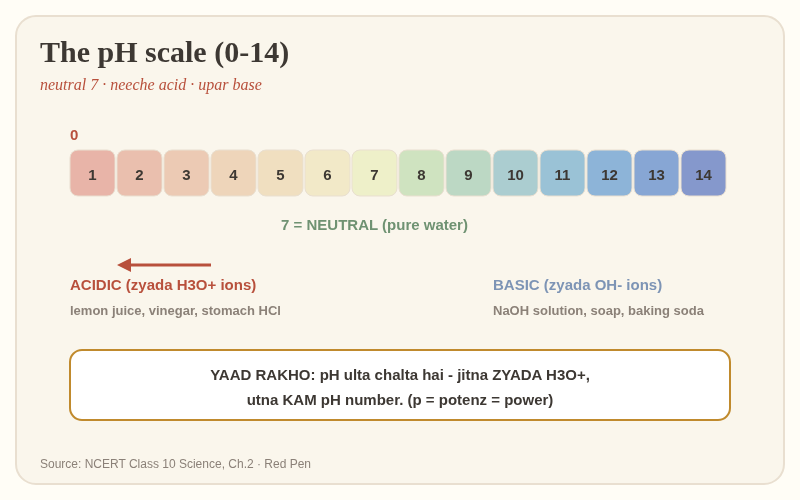
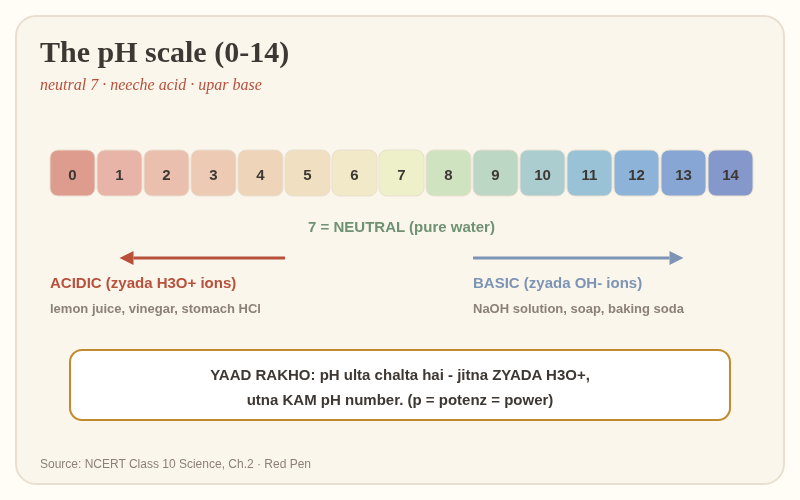
Fix pH card off-by-one: tiles now run 0-14 (15 tiles), arrows point acid-ward/base-ward

diff --git a/cards/gen_cards.js b/cards/gen_cards.js
@@ -168,18 +168,18 @@ const SRC2 = 'Source: NCERT Class 10 Science, Ch.2 · Red Pen';
 // pH scale 0-14
 {
   const seg = [];
-  const cols = ['#e8b4a8','#eabfae','#eccab4','#eed5ba','#f0dfc0','#f2e9c8','#eef0c9','#cfe3c0','#bcd8c4','#abcdd0','#9ac2d6','#8db4d8','#87a6d4','#8598cc','#8a8cc2'];
-  for (let i = 0; i < 14; i++) {
-    seg.push(`<rect x="${70 + i * 47}" y="150" width="45" height="46" rx="8" fill="${cols[i]}" stroke="${C.line}"/>`);
-    seg.push(txt(70 + i * 47 + 22.5, 180, String(i + 1), 15, C.ink, 'middle', 700));
+  const cols = ['#dd9c8e','#e8b4a8','#eabfae','#eccab4','#eed5ba','#f0dfc0','#f2e9c8','#eef0c9','#cfe3c0','#bcd8c4','#abcdd0','#9ac2d6','#8db4d8','#87a6d4','#8598cc'];
+  for (let i = 0; i <= 14; i++) {
+    seg.push(`<rect x="${50 + i * 47}" y="150" width="45" height="46" rx="8" fill="${cols[i]}" stroke="${C.line}"/>`);
+    seg.push(txt(50 + i * 47 + 22.5, 180, String(i), 15, C.ink, 'middle', 700));
   }
-  seg.push(txt(70, 140, '0', 15, C.pen, 'start', 700));
-  seg.push(txt(70 + 6 * 47 + 22.5, 230, '7 = NEUTRAL (pure water)', 15, C.sage, 'middle', 700));
-  seg.push(arrow(70 + 3 * 47, 265, 70 + 1 * 47, 265, C.pen));
-  seg.push(txt(70, 290, 'ACIDIC (zyada H3O+ ions)', 15, C.pen, 'start', 700));
-  seg.push(txt(70, 315, 'lemon juice, vinegar, stomach HCl', 13, C.soft));
-  seg.push(txt(70 + 9 * 47, 290, 'BASIC (zyada OH- ions)', 15, C.sky, 'start', 700));
-  seg.push(txt(70 + 9 * 47, 315, 'NaOH solution, soap, baking soda', 13, C.soft));
+  seg.push(txt(50 + 7 * 47 + 22.5, 232, '7 = NEUTRAL (pure water)', 15, C.sage, 'middle', 700));
+  seg.push(arrow(50 + 5 * 47, 258, 50 + 1 * 47 + 22.5, 258, C.pen));
+  seg.push(txt(50, 288, 'ACIDIC (zyada H3O+ ions)', 15, C.pen, 'start', 700));
+  seg.push(txt(50, 313, 'lemon juice, vinegar, stomach HCl', 13, C.soft));
+  seg.push(arrow(50 + 9 * 47, 258, 50 + 13 * 47 + 22.5, 258, C.sky));
+  seg.push(txt(50 + 9 * 47, 288, 'BASIC (zyada OH- ions)', 15, C.sky, 'start', 700));
+  seg.push(txt(50 + 9 * 47, 313, 'NaOH solution, soap, baking soda', 13, C.soft));
   seg.push(box(70, 350, 660, 70, '#fff', C.amber));
   seg.push(txt(400, 380, 'YAAD RAKHO: pH ulta chalta hai - jitna ZYADA H3O+,', 15, C.ink, 'middle'));
   seg.push(txt(400, 405, 'utna KAM pH number. (p = potenz = power)', 15, C.ink, 'middle'));
